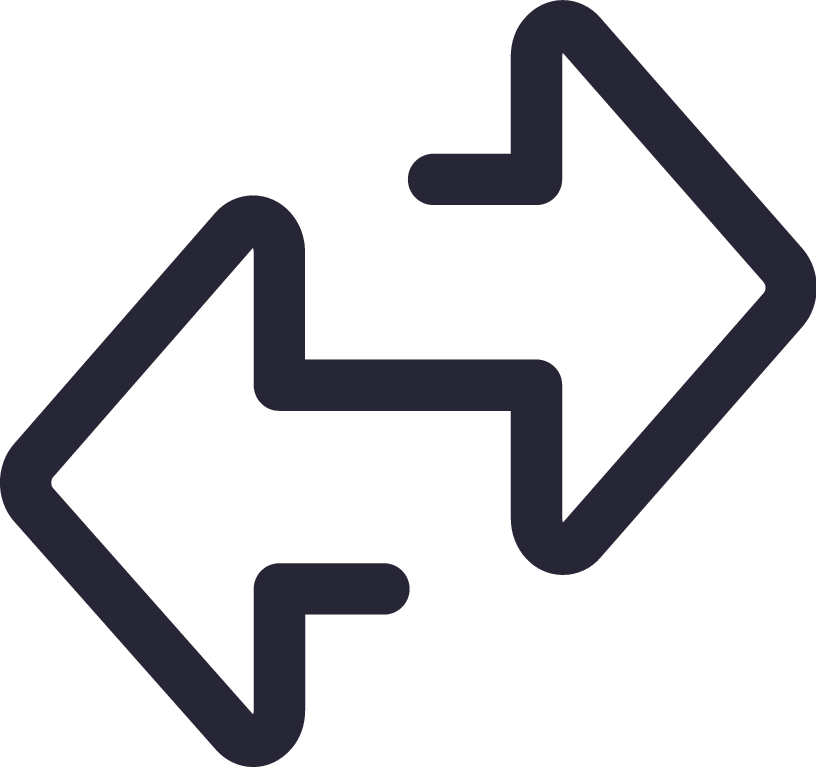
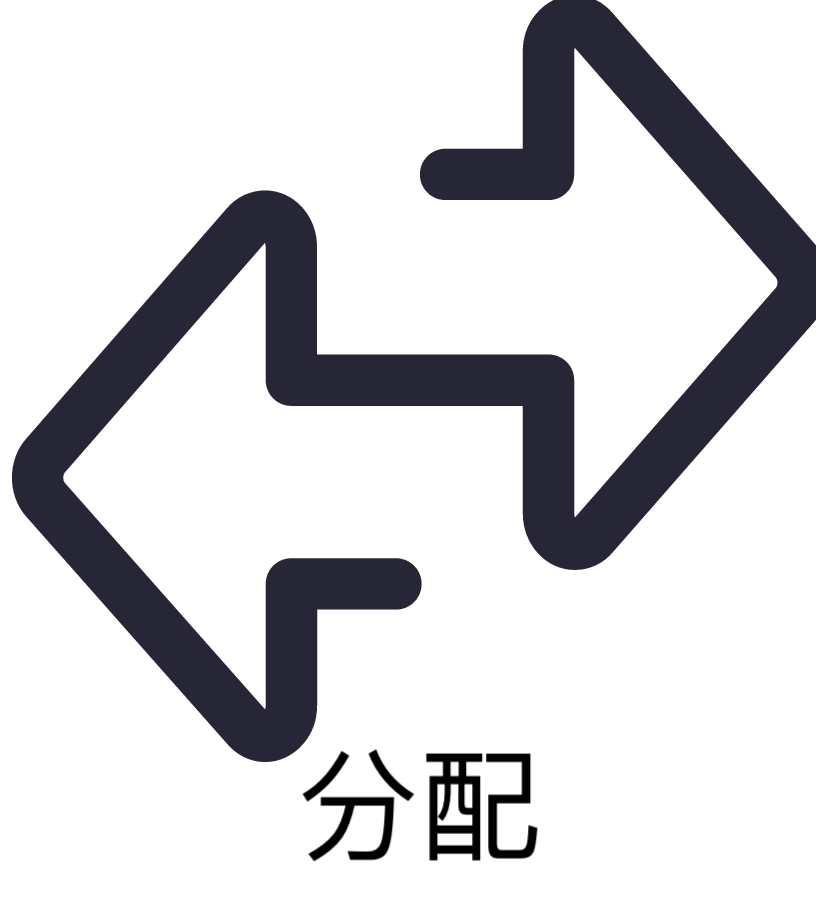
comment

Changed region(s): [[0.0, 0.0, 1.0, 1.0], [0.6434, 0.0, 0.674, 0.03]]

diff --git a/pages/service/dispatch.vue b/pages/service/dispatch.vue
@@ -1,0 +1,91 @@
+<template>
+	<view>
+		<uni-nav-bar dark :fixed="true" shadow background-color="#007AFF" status-bar left-icon="left" left-text="返回" title="导航栏" @clickLeft="back" />
+		<uni-row class="demo-uni-row">
+			<uni-col :span="6">
+				<uni-text>
+					<span style="font-size: 14px; color: #606266;">订单状态:</span>
+				</uni-text>
+			</uni-col>
+			<uni-col :span="6">
+				<uni-data-select
+					v-model="value"
+					:localdata="statusList"
+					@change="selectChange"
+					style="width: 150px;"
+				  ></uni-data-select>
+			</uni-col>
+		</uni-row>
+		<uni-list v-for="(item, index) in items">
+			<uni-list-item badgeText="done" :title="item.displayTitle" :note="item.detail" :rightText="item.serviceType.name" clickable  @click="onClick(item.id)" ></uni-list-item>
+		</uni-list>
+	</view>
+</template>
+
+<script>
+	export default {
+		data() {
+			return {
+				value: 0,
+				items:[
+				],
+			}
+		},
+		onLoad(param) {
+			this.statusList = [
+				{
+					"text": "待分配",
+					"value": "PENDINGDISPATCH"
+				},
+				{
+					"text": "已分配",
+					"value": "DISPATCHED"
+				},
+			]
+			this.loadServiceList(null)
+		},
+		methods: {
+			loadServiceList(dispatchStatus) {
+				var requestUrl = 'api/serviceList'
+				if (typeof dispatchStatus !== 'undefined' && dispatchStatus !== null && dispatchStatus !== 'null' && dispatchStatus !== '') {
+					requestUrl += '?dispatchStatus=' + dispatchStatus
+				}
+				uni.request({
+					// #ifdef H5
+					url: requestUrl,
+					// #endif
+					// #ifdef MP-WEIXIN
+					url: this.$api.defConfig.def().baseUrl + requestUrl,
+					// #endif
+					method: 'GET',
+					success: (res) => {
+						if (res.data.code === 200) {
+							this.items = res.data.serviceDataList
+							console.log(this.items)
+						}
+					}
+				})	
+			},			
+			onClick(id) {
+				uni.redirectTo({
+				  url: '/pages/service/detail?id=' + id
+				})
+			},
+			selectChange(e) {
+				console.log(e)
+				this.loadServiceList(e)
+			},
+			clickLeft() {
+			},			
+			back() {
+				uni.switchTab({
+					url: "/pages/index/index",
+				})
+			},
+		}
+	}
+</script>
+
+<style>
+
+</style>

diff --git a/pages/index/index.vue b/pages/index/index.vue
@@ -159,23 +159,21 @@
 			</uni-col>
 		</uni-row>
 		<uni-row v-if="showMaintenanceManage">
-			<uni-col :span="12">
+			<uni-col :span="8">
 				<uni-section title="耗材管理" type="line">
 					<uni-card :is-shadow="true" @click="onClick('consumption')" class="center">
 						<image style="width: 30px; height: 30px; align-content: center;" src="/static/consumption.png"></image><br/>
 					</uni-card>
 				</uni-section>
 			</uni-col>
-			<!-- <uni-col :span="12">
-				<uni-section title="维修管理" type="line">
-					<uni-card :is-shadow="true" @click="onClick('tool')" class="center">
-						<image style="width: 30px; height: 30px; align-content: center;" src="/static/tool1.png"></image><br/>
-					</uni-card>
-				</uni-section>
-			</uni-col> -->
-			<uni-col :span="12">
+			<uni-col :span="8">
 				<view @click="onClick('service')" class="center">
 					<image mode="widthFix" style="width: 150rpx; align-content: center;" src="/static/statistics.png"></image>
+				</view>
+			</uni-col>
+			<uni-col :span="8">
+				<view @click="onClick('dispatch')" class="center">
+					<image mode="widthFix" style="width: 150rpx; align-content: center;" src="/static/dispatch.png"></image>
 				</view>
 			</uni-col>
 		</uni-row>
@@ -401,6 +399,10 @@
 				} else if (type === 'service') {
 					uni.reLaunch({
 						url: "/pages/service/service?creatorId=" + get('loginInfo').id
+					})
+				} else if (type === 'dispatch') {
+					uni.reLaunch({
+						url: "/pages/service/dispatch"
 					})
 				} else if (type === 'consumption') {
 					uni.reLaunch({

diff --git a/pages/service/service.vue b/pages/service/service.vue
@@ -123,7 +123,6 @@
 				},
 			]
 			// this.loadServiceList(param)
-			var requestUrl = 'api/serviceList'
 			let userInfo = get('loginInfo')
 			var requestUrl = 'api/serviceList'
 			if (userInfo?.role?.name === "student") {
@@ -207,7 +206,7 @@
 				})
 			},
 			onClick(id) {
-				uni.navigateTo({
+				uni.redirectTo({
 				  url: '/pages/service/detail?id=' + id
 				})
 			},
